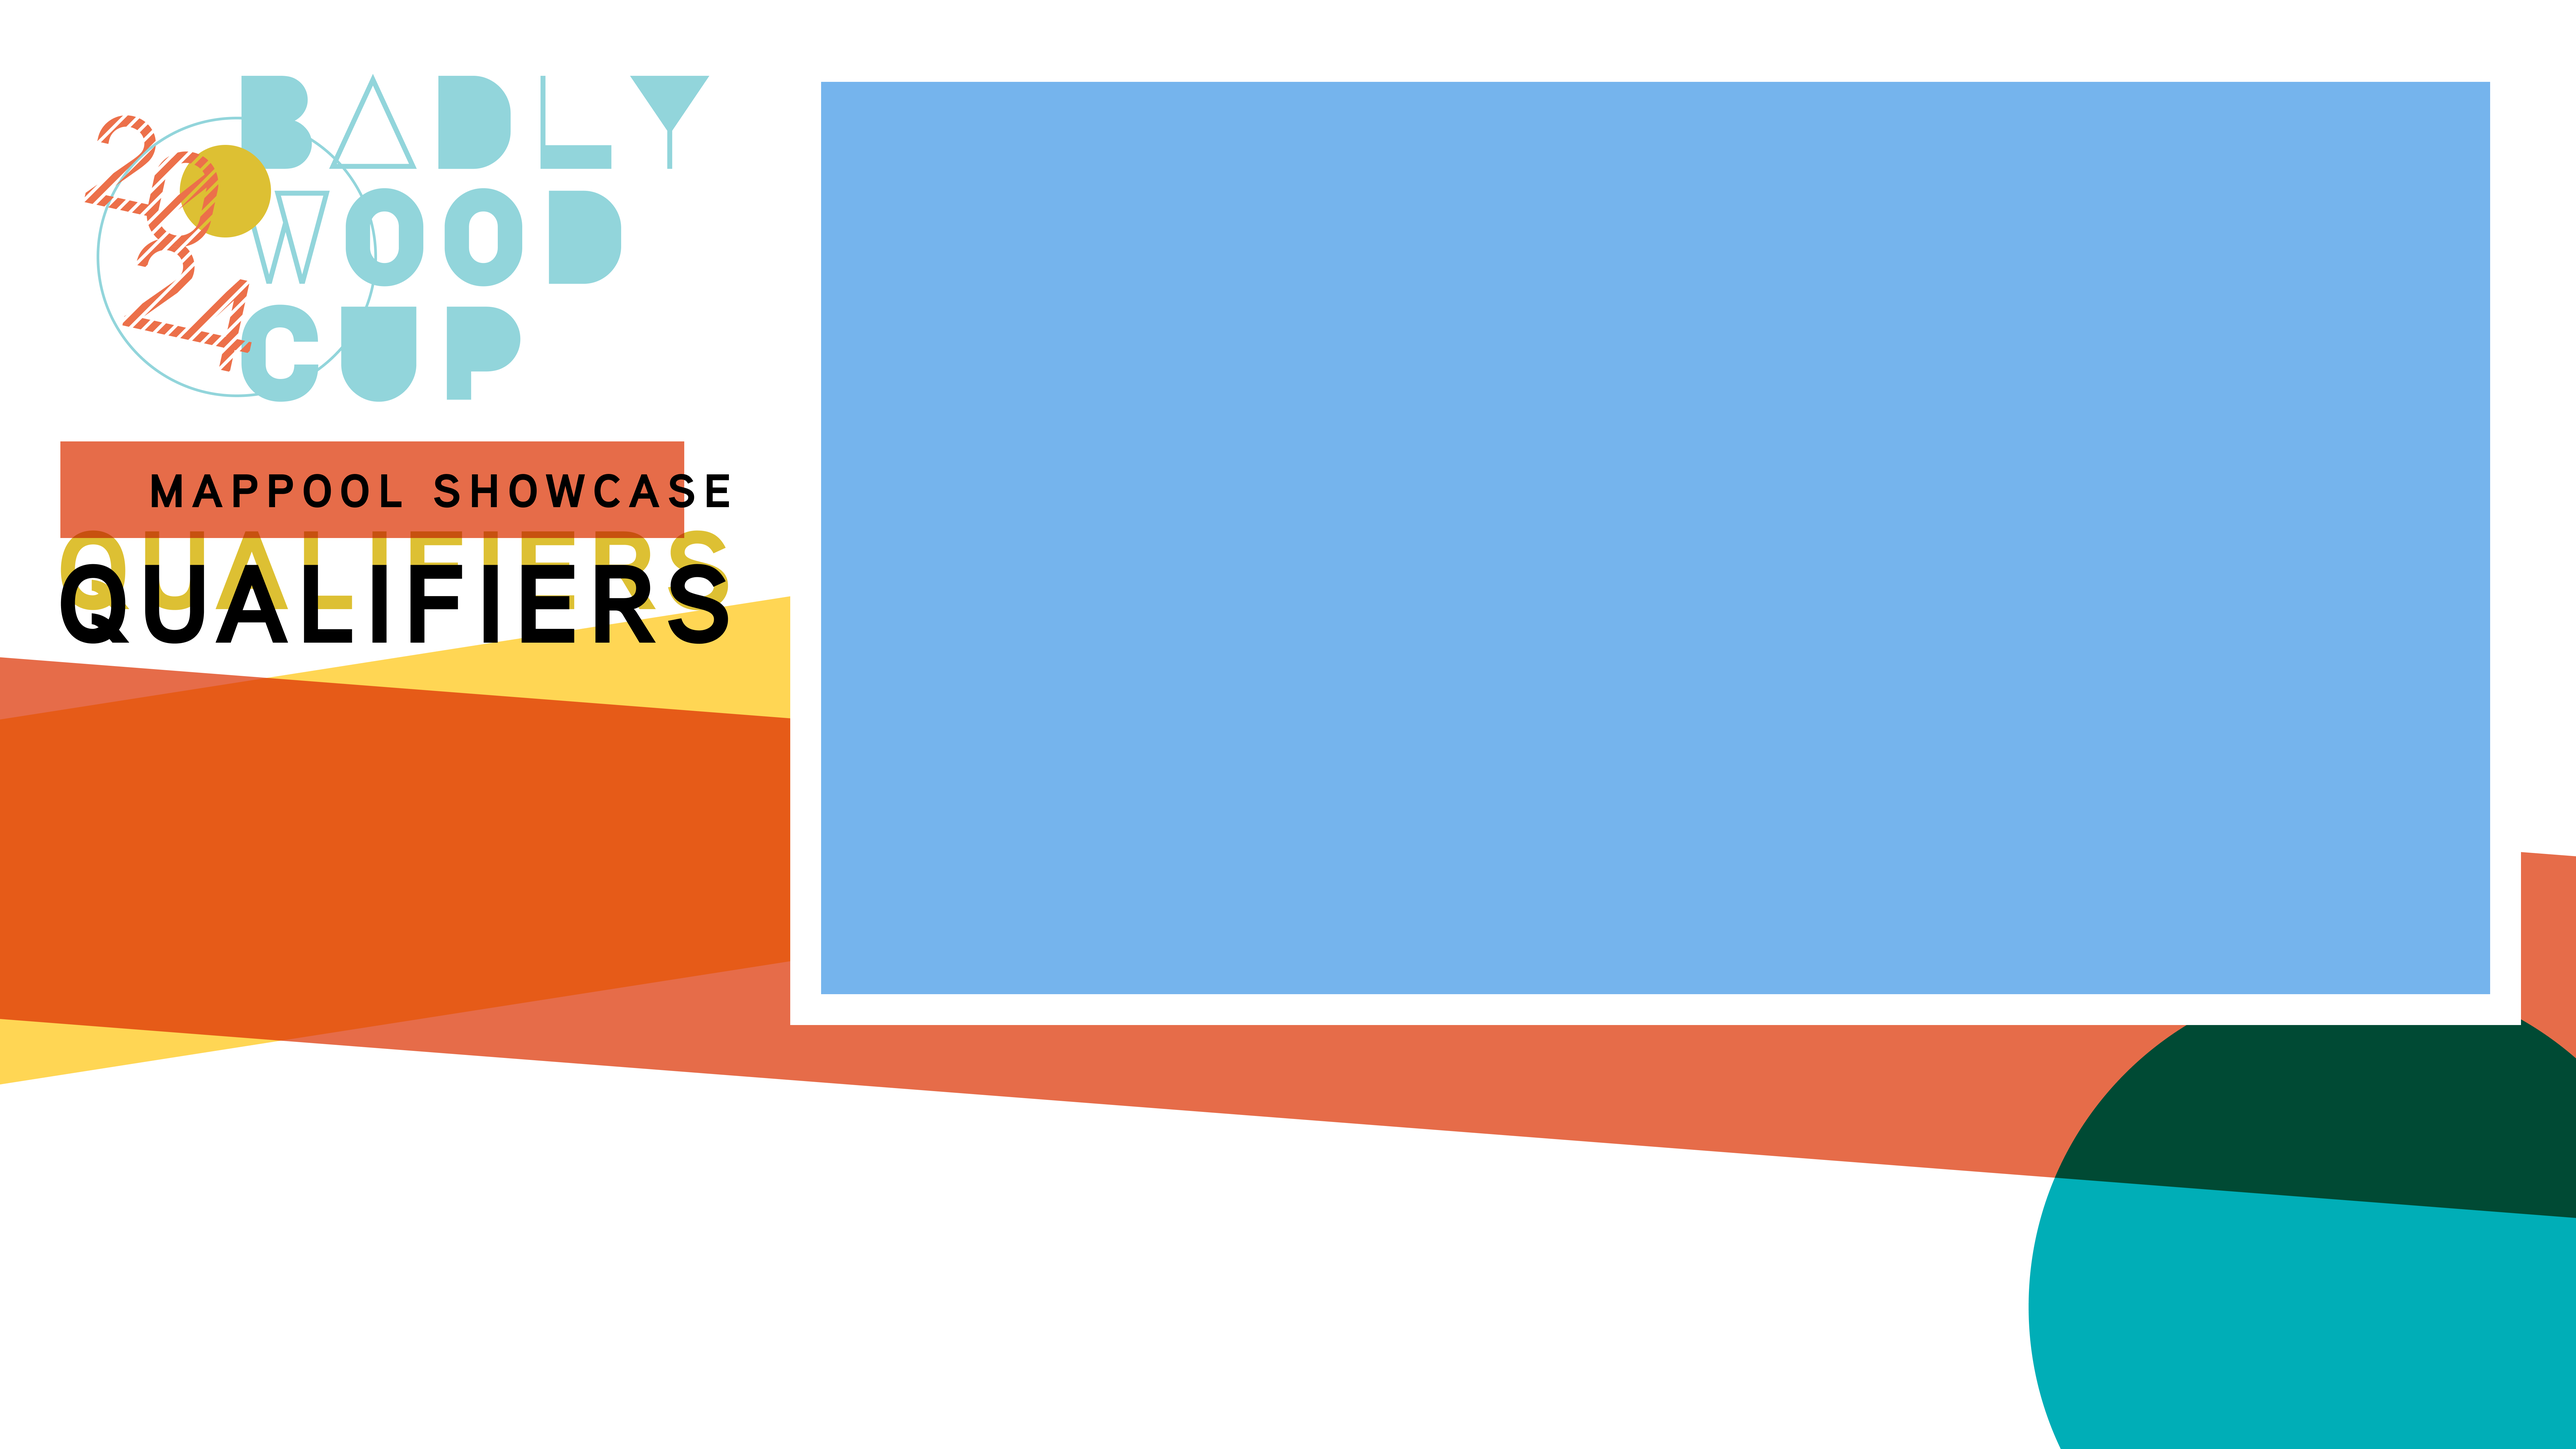
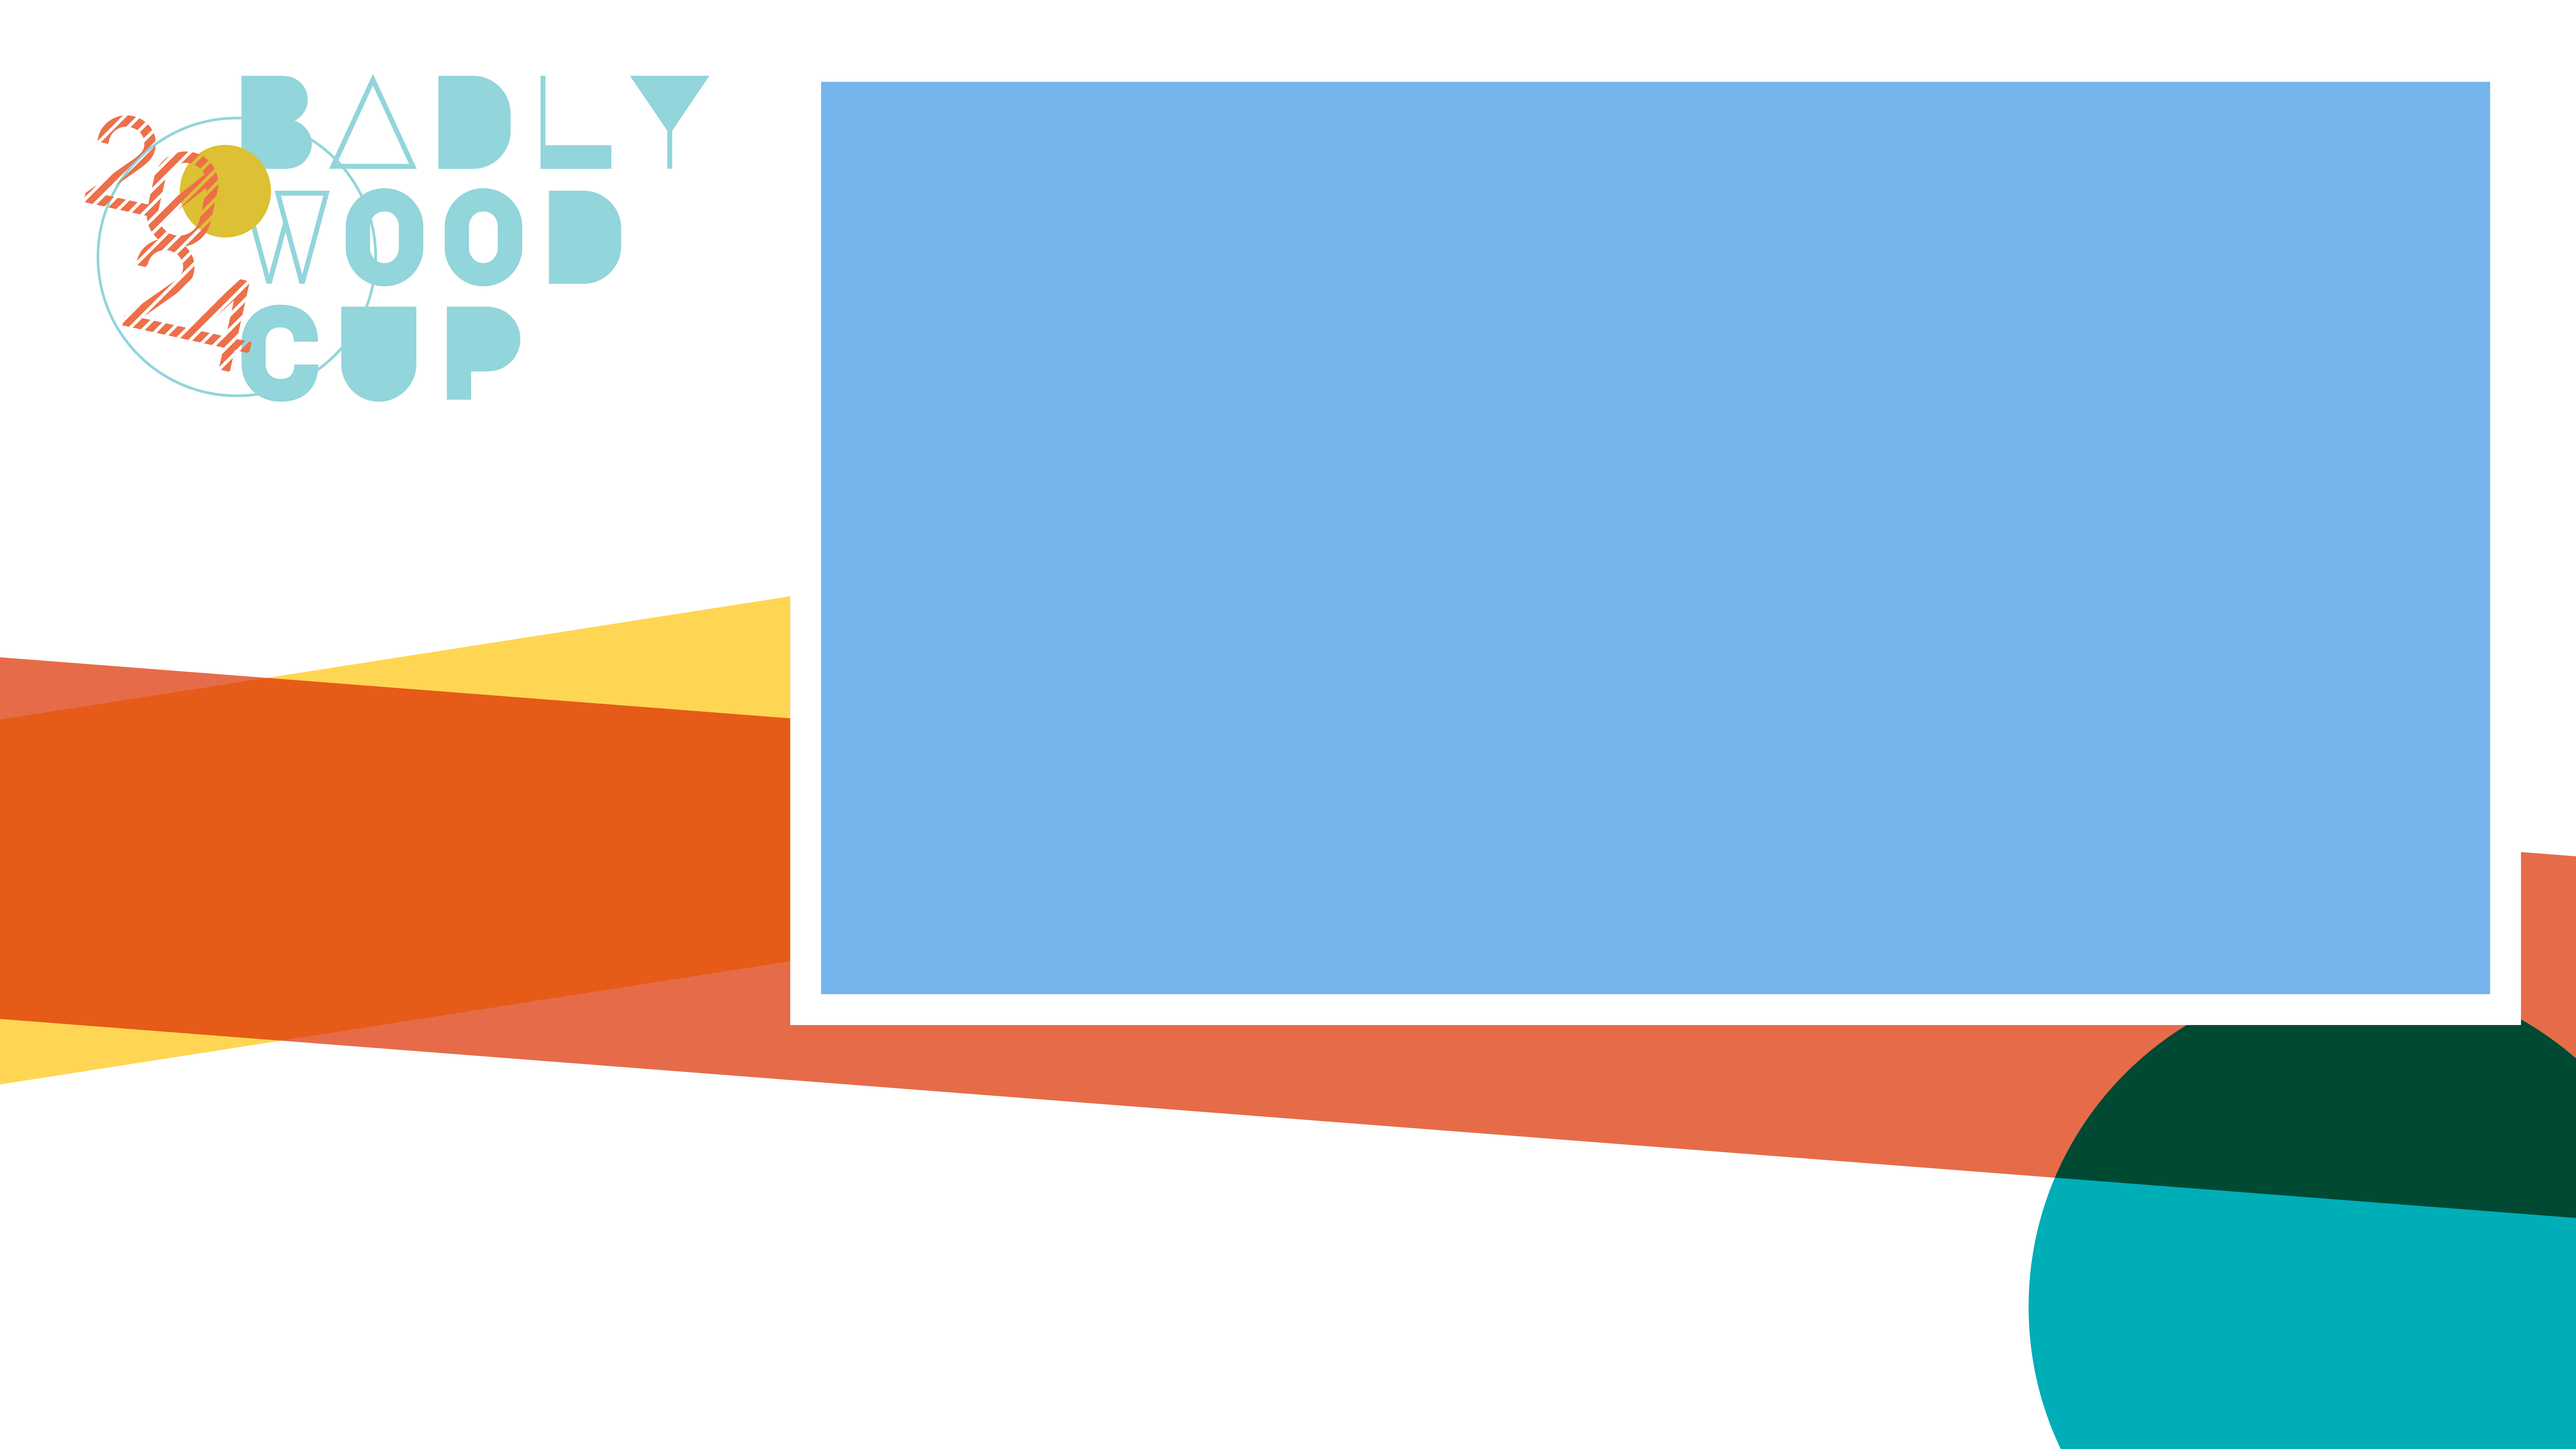
Set round name

Changed region(s): [[0.0, 0.2812, 0.2812, 0.4688]]

diff --git a/showcase/index.js b/showcase/index.js
@@ -1,3 +1,44 @@
+// Round Names
+const roundTextYellowEl = document.getElementById("roundTextYellow")
+const roundTextBlackEl = document.getElementById("roundTextBlack")
+const roundTextMaxWidth = 510
+let roundName
+let allBeatmaps
+
+// Load in mappool
+async function getMappool() {
+    const response = await fetch("../_data/showcaseBeatmaps.json")
+    const responseJson = await response.json()
+
+    // Round name
+    roundName = responseJson.roundName.toUpperCase()
+    roundTextYellowEl.innerText = roundName
+    roundTextBlackEl.innerText = roundName
+    setLetterSize(roundTextYellowEl)
+    setLetterSize(roundTextBlackEl)
+
+    // Set beatmaps
+    allBeatmaps = responseJson.beatmaps
+}
+
+function setLetterSize(element) {
+    let currentLetterSpacing = window.getComputedStyle(element).getPropertyValue("letter-spacing").slice(0,-2)
+    let currentLetterSpacingConditionMet = false
+    while (!currentLetterSpacingConditionMet) {
+        if (element.getBoundingClientRect().width > roundTextMaxWidth + 1) {
+            currentLetterSpacing -= 0.01
+            element.style.letterSpacing = `${currentLetterSpacing}px`
+        } else if (element.getBoundingClientRect().width < roundTextMaxWidth - 1) {
+            currentLetterSpacing += 0.01
+            element.style.letterSpacing = `${currentLetterSpacing}px`
+        } else {
+            currentLetterSpacingConditionMet = true
+        }
+    }
+}
+
+getMappool()
+
 // Socket Events
 // Credits: VictimCrasher - https://github.com/VictimCrasher/static/tree/master/WaveTournament
 const socket = new ReconnectingWebSocket("ws://" + location.host + "/ws")
